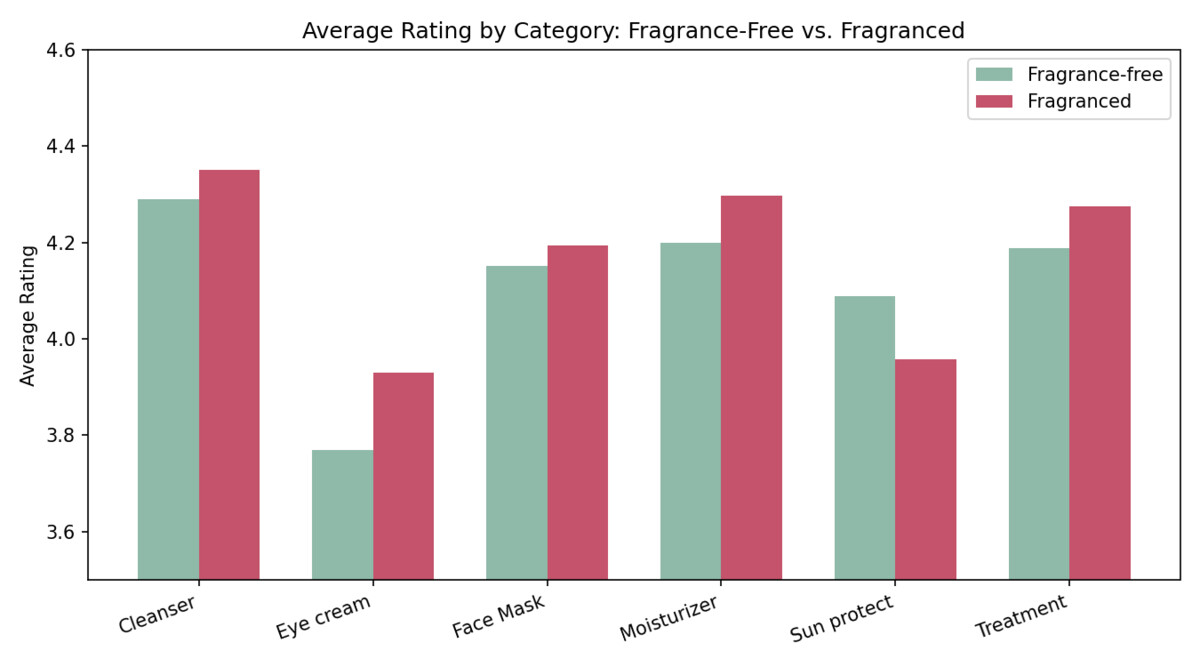
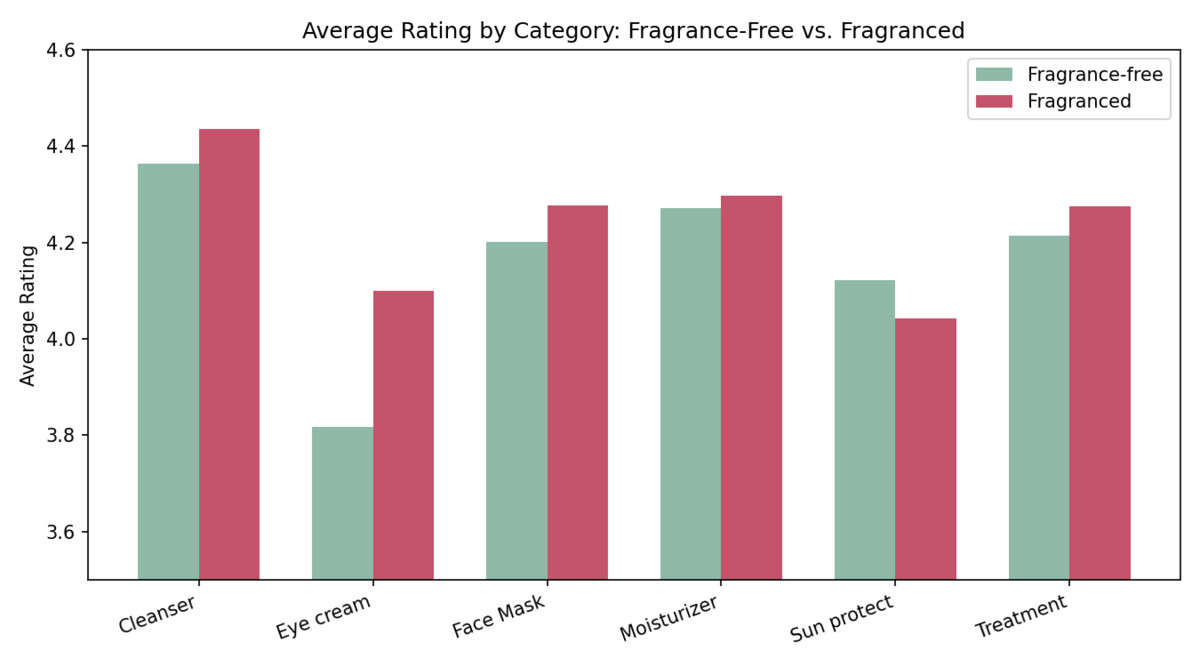
Add files via upload

diff --git a/fragrance-report.html b/fragrance-report.html
@@ -156,16 +156,20 @@
   <p class="lead">"Fragrance-free" is one of the most common clean-beauty claims on skincare packaging. Does it actually correlate with happier customers, or is it just a marketing checkbox people pay extra to avoid?</p>
   <p style="margin-top:16px;">I analyzed 1,472 Sephora skincare products — moisturizers, cleansers, treatments, eye creams, sunscreens, and face masks — comparing products that list "fragrance" or "parfum" in their ingredients against those that don't, on both customer rating and price.</p>
 
+  <h2>Cleaning the data first</h2>
+  <p>Before comparing anything, I checked the raw data for issues that could quietly distort the results. The dataset had no missing values and no duplicate rows — but the rating column told a different story: <strong>19 of 1,472 products had a rating of exactly 0</strong>, on a scale that otherwise only runs from 1 to 5 stars.</p>
+  <p style="margin-top:16px;">A true 0 would mean "worse than a 1-star product," which isn't how this rating scale works — this almost certainly means "not yet rated," not "rated and hated." Left in, these zeros would silently drag down the average for whichever group they happened to land in, without reflecting any actual customer opinion. I dropped these 19 rows before running any comparison. The effect was small but directionally important: removing them widened the rating gap between groups and made the result more statistically significant, not less — a sign the zeros were noise, not signal.</p>
+
   <h2>The surprising part</h2>
   <p>Fragranced products rate <em>higher</em>, not lower — and cost meaningfully more. Both differences are statistically significant, not noise.</p>
 
   <div class="stats">
     <div class="stat">
-      <div class="num">4.22 vs 4.12</div>
-      <div class="label">avg rating, fragranced vs. fragrance-free (p=0.006)</div>
+      <div class="num">4.28 vs 4.17</div>
+      <div class="label">avg rating, fragranced vs. fragrance-free (p&lt;0.001)</div>
     </div>
     <div class="stat">
-      <div class="num">$62.78 vs $51.81</div>
+      <div class="num">$62.86 vs $51.55</div>
       <div class="label">avg price, fragranced vs. fragrance-free (p&lt;0.001)</div>
     </div>
   </div>
@@ -177,7 +181,7 @@
   <p>So on the surface: going fragrance-free doesn't buy you a better-reviewed product — if anything, the opposite. But that's not the same as "fragrance-free doesn't matter." It just means the value of fragrance-free isn't rating-driven; it's about sensitivity, allergies, and personal preference, which this dataset doesn't measure directly.</p>
 
   <h2>Where the story flips</h2>
-  <p>Averages hide category differences, so I broke it down by product type. Five of six categories follow the overall pattern — fragranced products rate slightly higher. <strong>Sun protection is the exception</strong>: fragrance-free sunscreens rate higher (4.09 vs. 3.96) <em>and</em> cost less than their fragranced counterparts.</p>
+  <p>Averages hide category differences, so I broke it down by product type. Five of six categories follow the overall pattern — fragranced products rate slightly higher. <strong>Sun protection is the exception</strong>: fragrance-free sunscreens rate higher (4.12 vs. 4.04) <em>and</em> cost less than their fragranced counterparts.</p>
 
   <div class="figure">
     <img src="chart_by_category.jpg" alt="Grouped bar chart of average rating by product category, fragrance-free versus fragranced">

diff --git a/fragrance_analysis.py b/fragrance_analysis.py
@@ -27,12 +27,51 @@ DATA_PATH = "cosmetics.csv"
 
 
 def load_data(path: str = DATA_PATH) -> pd.DataFrame:
-    """Load the cosmetics dataset and add a fragrance_free flag column."""
+    """Load the raw cosmetics dataset and add a fragrance_free flag column."""
     df = pd.read_csv(path, encoding="utf-8-sig")
     df["fragrance_free"] = ~df["Ingredients"].str.contains(
         "fragrance|parfum", case=False, na=False
     )
     return df
+
+
+def explore_data(df: pd.DataFrame) -> None:
+    """
+    Print a basic data-quality pass: shape, missing values, duplicate
+    rows, and the distribution of the two numeric columns we care about
+    (Rank and Price). This is meant to run BEFORE any analysis, so any
+    issue it surfaces gets handled in clean_data() rather than silently
+    skewing the results.
+    """
+    print("Shape:", df.shape)
+    print("\nMissing values per column:")
+    print(df.isnull().sum())
+    print("\nFull duplicate rows:", df.duplicated().sum())
+    print("\nRank (rating) summary:")
+    print(df["Rank"].describe())
+    print("Products with Rank == 0:", (df["Rank"] == 0).sum())
+    print("\nPrice summary:")
+    print(df["Price"].describe())
+
+
+def clean_data(df: pd.DataFrame) -> pd.DataFrame:
+    """
+    Apply the cleaning decision found during exploration: drop products
+    with a Rank of exactly 0.
+
+    Why: ratings in this dataset run 1-5 stars. A small number of
+    products (19 of 1,472) show a Rank of 0, which lines up with
+    "not yet rated" rather than a genuine below-1-star score -- no
+    product actually has a worse rating than a 1-star product would.
+    Left in, these zeros would silently drag down average ratings for
+    whichever group they happened to fall into. There were no missing
+    values or full duplicate rows to handle otherwise.
+    """
+    before = len(df)
+    cleaned = df[df["Rank"] > 0].copy()
+    dropped = before - len(cleaned)
+    print(f"Dropped {dropped} rows with Rank == 0 ({before} -> {len(cleaned)})")
+    return cleaned
 
 
 def overall_comparison(df: pd.DataFrame) -> dict:
@@ -133,7 +172,13 @@ def plot_category_breakdown(cat_df: pd.DataFrame, out_path: str = "chart_by_cate
 
 
 if __name__ == "__main__":
-    df = load_data()
+    raw_df = load_data()
+
+    print("=== Data Exploration (before cleaning) ===")
+    explore_data(raw_df)
+
+    print("\n=== Cleaning ===")
+    df = clean_data(raw_df)
 
     summary = overall_comparison(df)
     print("=== Overall ===")
